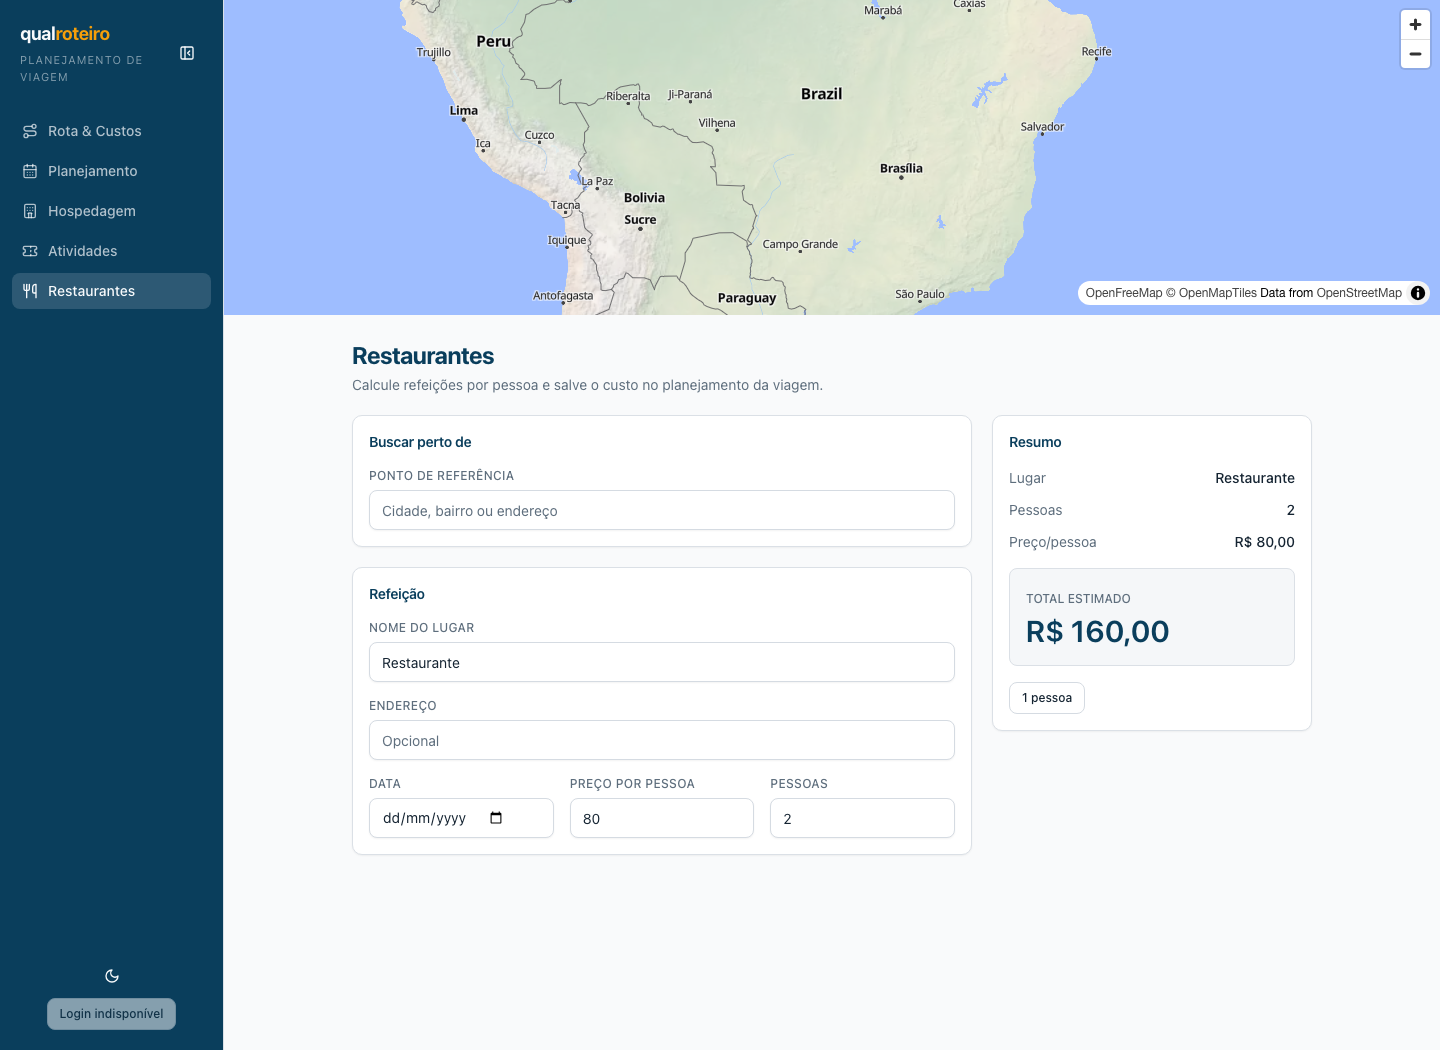
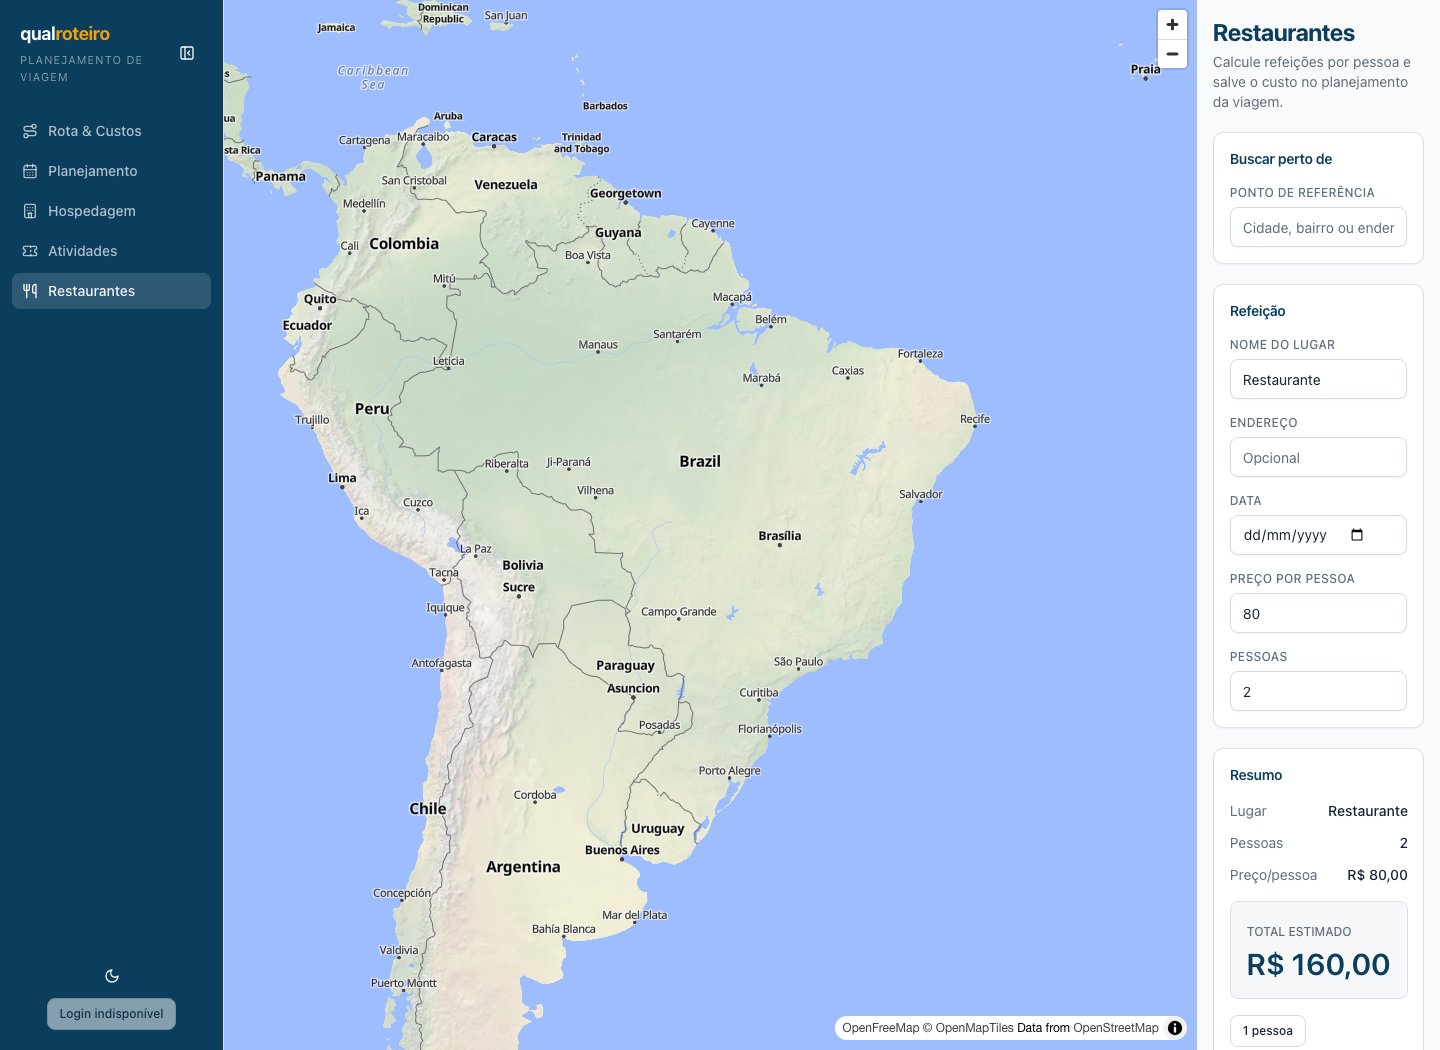
fix(web): fit map side panel without overflow

diff --git a/apps/web/src/modules/rota-custos/ResultScreen.tsx b/apps/web/src/modules/rota-custos/ResultScreen.tsx
@@ -40,7 +40,7 @@ export function ResultScreen() {
   return (
     <aside
       aria-label="Custos da rota"
-      className="flex min-h-0 flex-1 flex-col gap-4 overflow-y-auto border-border bg-background p-4 md:w-[26rem] md:flex-none md:border-l md:p-5"
+      className="flex min-w-0 min-h-0 flex-1 flex-col gap-4 overflow-y-auto border-border bg-background p-4 md:border-l md:p-5"
     >
       <div>
         <Button asChild variant="ghost" size="sm" className="-ml-2 mb-2 text-muted-foreground">
@@ -65,17 +65,17 @@ export function ResultScreen() {
       <SummaryRow route={route} />
 
       <Tabs defaultValue="pedagios" className="flex flex-none flex-col">
-        <TabsList className="min-h-10 shrink-0 gap-0.5 overflow-x-auto">
-          <TabsTrigger value="pedagios" className="min-w-max flex-none px-2 text-xs">
+        <TabsList className="min-h-10 shrink-0 flex-wrap gap-0.5 overflow-visible">
+          <TabsTrigger value="pedagios" className="min-w-0 flex-1 basis-[45%] px-2 text-xs">
             Pedágios
           </TabsTrigger>
-          <TabsTrigger value="combustivel" className="min-w-max flex-none px-2 text-xs">
+          <TabsTrigger value="combustivel" className="min-w-0 flex-1 basis-[45%] px-2 text-xs">
             Combustível
           </TabsTrigger>
-          <TabsTrigger value="pontos" className="min-w-max flex-none px-2 text-xs">
+          <TabsTrigger value="pontos" className="min-w-0 flex-1 basis-[45%] px-2 text-xs">
             Pontos na rota
           </TabsTrigger>
-          <TabsTrigger value="alternativas" className="min-w-max flex-none px-2 text-xs">
+          <TabsTrigger value="alternativas" className="min-w-0 flex-1 basis-[45%] px-2 text-xs">
             Alternativas
           </TabsTrigger>
         </TabsList>

diff --git a/apps/web/src/modules/hospedagem/index.tsx b/apps/web/src/modules/hospedagem/index.tsx
@@ -138,7 +138,7 @@ function HospedagemPanel() {
   const priceError = stay.pricePerNight < 0 ? result.error : null;
 
   return (
-    <section className="mx-auto flex w-full max-w-5xl flex-col gap-5 px-4 py-6 md:px-8">
+    <section className="map-panel-content mx-auto flex w-full max-w-5xl flex-col gap-5 px-4 py-6 md:px-8">
       <header className="flex flex-col gap-1">
         <h1 className="text-2xl font-bold tracking-tight text-primary">Hospedagem</h1>
         <p className="text-sm text-muted-foreground">
@@ -173,7 +173,7 @@ function HospedagemPanel() {
                 Nenhuma hospedagem encontrada nesta região.
               </p>
             ) : (
-              <ul aria-label="Hospedagens encontradas" className="grid gap-2 sm:grid-cols-2">
+              <ul aria-label="Hospedagens encontradas" className="calculator-nearby-grid grid gap-2 sm:grid-cols-2">
                 {nearbyPlaces.map((place) => (
                   <li key={place.id}>
                     <button
@@ -196,7 +196,7 @@ function HospedagemPanel() {
         </CardContent>
       </Card>
 
-      <div className="grid gap-4 lg:grid-cols-[minmax(0,1fr)_20rem]">
+      <div className="calculator-main-grid grid gap-4 lg:grid-cols-[minmax(0,1fr)_20rem]">
         <Card>
           <CardHeader>
             <CardTitle>Dados da estadia</CardTitle>
@@ -222,7 +222,7 @@ function HospedagemPanel() {
                 />
               </div>
 
-              <div className="grid gap-3 sm:grid-cols-3">
+              <div className="calculator-form-grid grid gap-3 sm:grid-cols-3">
                 <div className="grid gap-1.5">
                   <Label htmlFor="lodging-check-in">Check-in</Label>
                   <Input

diff --git a/apps/web/src/modules/atividades/index.tsx b/apps/web/src/modules/atividades/index.tsx
@@ -140,7 +140,7 @@ function AtividadesPanel() {
   const peopleError = plan.people < 1 ? result.error : null;
 
   return (
-    <section className="mx-auto flex w-full max-w-5xl flex-col gap-5 px-4 py-6 md:px-8">
+    <section className="map-panel-content mx-auto flex w-full max-w-5xl flex-col gap-5 px-4 py-6 md:px-8">
       <header className="flex flex-col gap-1">
         <h1 className="text-2xl font-bold tracking-tight text-primary">Atividades</h1>
         <p className="text-sm text-muted-foreground">
@@ -148,7 +148,7 @@ function AtividadesPanel() {
         </p>
       </header>
 
-      <div className="grid gap-4 lg:grid-cols-[minmax(0,1fr)_20rem]">
+      <div className="calculator-main-grid grid gap-4 lg:grid-cols-[minmax(0,1fr)_20rem]">
         <Card className="lg:col-span-2">
           <CardHeader>
             <CardTitle>Encontrar atividade</CardTitle>
@@ -224,7 +224,7 @@ function AtividadesPanel() {
                 />
               </div>
 
-              <div className="grid gap-3 sm:grid-cols-3">
+              <div className="calculator-form-grid grid gap-3 sm:grid-cols-3">
                 <div className="grid gap-1.5">
                   <Label htmlFor="activity-date">Data</Label>
                   <Input

diff --git a/apps/web/src/modules/restaurantes/index.tsx b/apps/web/src/modules/restaurantes/index.tsx
@@ -122,7 +122,7 @@ function RestaurantPanel() {
   const peopleError = visit.people < 1 ? costResult.error : null;
 
   return (
-    <section className="mx-auto flex w-full max-w-5xl flex-col gap-5 px-4 py-6 md:px-8">
+    <section className="map-panel-content mx-auto flex w-full max-w-5xl flex-col gap-5 px-4 py-6 md:px-8">
       <header className="flex flex-col gap-1">
         <h1 className="text-2xl font-bold tracking-tight text-primary">Restaurantes</h1>
         <p className="text-sm text-muted-foreground">
@@ -130,7 +130,7 @@ function RestaurantPanel() {
         </p>
       </header>
 
-      <div className="grid gap-5 lg:grid-cols-[minmax(0,1fr)_20rem]">
+      <div className="calculator-main-grid grid gap-5 lg:grid-cols-[minmax(0,1fr)_20rem]">
         <div className="grid gap-5">
           <Card>
             <CardHeader>
@@ -195,7 +195,7 @@ function RestaurantPanel() {
                   />
                 </div>
 
-                <div className="grid gap-4 sm:grid-cols-3">
+                <div className="calculator-form-grid grid gap-4 sm:grid-cols-3">
                   <div className="grid gap-1.5">
                     <Label htmlFor="restaurant-date">Data</Label>
                     <Input

diff --git a/apps/web/src/core/shell/AppShell.tsx b/apps/web/src/core/shell/AppShell.tsx
@@ -147,13 +147,13 @@ export function AppShell({ children }: { children: ReactNode }) {
       <main
         className={cn(
           'min-w-0 flex-1',
-          showMap && 'flex h-[calc(100vh-3.25rem)] flex-col overflow-hidden md:h-screen',
+          showMap && 'flex h-[calc(100vh-3.25rem)] flex-col overflow-hidden md:h-screen md:flex-row',
         )}
       >
         {showMap ? (
           <div
             data-testid="app-map-container"
-            className="relative h-[30vh] min-h-48 max-h-[22rem] shrink-0"
+            className="relative h-[30vh] min-h-48 max-h-[22rem] shrink-0 md:h-auto md:min-h-0 md:max-h-none md:w-4/5"
           >
             <MapCanvas
               trace={mapTrace?.coordinates ?? null}
@@ -162,7 +162,7 @@ export function AppShell({ children }: { children: ReactNode }) {
             />
           </div>
         ) : null}
-        <div className={cn(showMap && 'min-h-0 flex-1 overflow-y-auto')}>
+        <div className={cn(showMap && 'map-content-panel min-h-0 flex-1 overflow-x-hidden overflow-y-auto md:w-1/5')}>
           {children}
         </div>
       </main>

diff --git a/apps/web/src/core/shell/AppShell.test.tsx b/apps/web/src/core/shell/AppShell.test.tsx
@@ -58,17 +58,21 @@ describe('AppShell', () => {
   });
 
   it.each(['/rota-custos', '/hospedagem', '/restaurantes', '/atividades'])(
-    'stacks the map above the content for %s',
+    'uses the 80/20 map-and-content split for %s',
     (path) => {
       const { container } = renderApp(path);
       const main = container.querySelector('main');
       const map = screen.getByTestId('app-map-container');
 
-      expect(main).toHaveClass('flex-col');
-      expect(main).not.toHaveClass('md:flex-row');
-      expect(map).toHaveClass('h-[30vh]', 'min-h-48', 'max-h-[22rem]');
+      expect(main).toHaveClass('flex-col', 'md:flex-row');
+      expect(map).toHaveClass('h-[30vh]', 'min-h-48', 'max-h-[22rem]', 'md:w-4/5');
       expect(map.parentElement).toBe(main);
-      expect(map.nextElementSibling).toHaveClass('overflow-y-auto');
+      expect(map.nextElementSibling).toHaveClass(
+        'map-content-panel',
+        'overflow-x-hidden',
+        'overflow-y-auto',
+        'md:w-1/5',
+      );
 
       cleanup();
       resetApp();

diff --git a/apps/web/src/modules/rota-custos/rotaCustos.test.tsx b/apps/web/src/modules/rota-custos/rotaCustos.test.tsx
@@ -256,14 +256,14 @@ describe('Tela 2 — resultado', () => {
     expect(screen.queryByText(/três corredores|base de demonstração/i)).not.toBeInTheDocument();
   });
 
-  it('keeps every tab label available without truncating Alternativas', async () => {
+  it('keeps every tab label available without horizontal scrolling', async () => {
     await planFromForm({ routes: [DUTRA_ROUTE, ALTERNATIVE_ROUTE] });
     await screen.findByRole('heading', { name: /resultado da rota/i });
 
     const alternatives = panel().getByRole('tab', { name: 'Alternativas' });
-    expect(alternatives).toHaveClass('min-w-max');
+    expect(alternatives).toHaveClass('min-w-0', 'basis-[45%]');
     expect(alternatives).toHaveClass('text-xs');
-    expect(alternatives.parentElement).toHaveClass('overflow-x-auto');
+    expect(alternatives.parentElement).toHaveClass('flex-wrap', 'overflow-visible');
   });
 
   it('shows litres, price and cost on the fuel tab, and the cost is litres × price', async () => {

diff --git a/apps/web/src/index.css b/apps/web/src/index.css
@@ -107,4 +107,27 @@
   .dark .maplibregl-canvas {
     filter: brightness(0.78) saturate(0.85);
   }
+
+  @media (min-width: 768px) {
+    .map-content-panel {
+      container-type: inline-size;
+    }
+
+    .map-content-panel > * {
+      min-width: 0;
+    }
+
+    .map-content-panel .map-panel-content,
+    .map-content-panel .route-query-panel {
+      padding: 1rem !important;
+    }
+
+    .map-content-panel .calculator-main-grid,
+    .map-content-panel .calculator-form-grid,
+    .map-content-panel .calculator-nearby-grid,
+    .map-content-panel fieldset,
+    .map-content-panel .grid-cols-2 {
+      grid-template-columns: minmax(0, 1fr) !important;
+    }
+  }
 }

diff --git a/apps/web/src/modules/rota-custos/NewQueryScreen.tsx b/apps/web/src/modules/rota-custos/NewQueryScreen.tsx
@@ -180,7 +180,7 @@ export function NewQueryScreen() {
   }
 
   return (
-    <div className="mx-auto w-full max-w-3xl px-4 py-8 md:px-8 md:py-12">
+    <div className="route-query-panel mx-auto w-full max-w-3xl px-4 py-8 md:px-8 md:py-12">
       <header className="mb-8">
         <h1 className="text-2xl font-bold tracking-tight text-primary md:text-3xl">
           Quanto custa essa viagem?

diff --git a/docs/decisions/0002-ui-shell-theme-and-map-layout.md b/docs/decisions/0002-ui-shell-theme-and-map-layout.md
@@ -42,11 +42,15 @@ mapa.
 
 ### Mapa
 
-- Qualquer rota cujo módulo declare `showMap: true` usa a composição vertical:
-  mapa primeiro e conteúdo rolável abaixo. O mapa mede `30vh`, com mínimo de
-  12rem e máximo de 22rem — aproximadamente um terço da altura, como acordado.
+- Em desktop, qualquer rota cujo módulo declare `showMap: true` usa a divisão
+  vertical: mapa à esquerda em `4/5` (80%) da área útil do `main` e conteúdo
+  rolável à direita em `1/5` (20%). Em mobile, ela volta a empilhar mapa acima
+  do conteúdo para preservar campos utilizáveis.
 - A região rolável de conteúdo evita que formulários extensos cortem o mapa ou
-  ultrapassem a viewport.
+  ultrapassem a viewport em ambas as composições. No painel 20%, grades dos
+  formulários tornam-se coluna única e o container bloqueia overflow horizontal;
+  não usar larguras mínimas ou grids por breakpoint de viewport sem considerar
+  esse container.
 - O enquadramento inicial é Brasil (`center: [-52.5, -14.5]`, `zoom: 3.4`).
   A lógica existente de `fitBounds` ainda assume a visualização quando houver
   uma rota ou marcadores publicados.
@@ -55,8 +59,8 @@ mapa.
 
 1. Não recriar `MapCanvas` nos módulos. Para uma nova tela com mapa, declarar
    `showMap: true` no registro e publicar/limpar camadas pela `mapStore`.
-2. Não substituir `flex-col` por um grid/lado a lado dentro de módulos; o
-   shell é a fonte única do posicionamento do mapa.
+2. Não criar grid/lado a lado dentro de módulos; o shell é a fonte única da
+   divisão 80/20 desktop e do empilhamento mobile do mapa.
 3. Todo controle somente por ícone precisa de nome acessível e tooltip/título.
 4. Usar tokens (`bg-background`, `text-foreground`, `bg-card`, etc.) para que
    claro e escuro funcionem sem variantes locais.
@@ -69,8 +73,10 @@ mapa.
 - Testes: `apps/web/src/core/shell/AppShell.test.tsx` cobre preferência do
   sistema, persistência do tema/menu, acessibilidade do menu compacto e as
   quatro rotas com mapa. `MapCanvas.test.tsx` cobre a visão inicial Brasil.
-- Inspeção Playwright em 1440×1050: todas as quatro rotas registraram mapa
-  como primeiro filho do `main`, `flex-col` e conteúdo com `overflow-y-auto`.
+- Inspeção Playwright em 1440×1050: todas as quatro rotas registram mapa como
+  primeiro filho do `main`, `md:flex-row`, `md:w-4/5` e conteúdo rolável em
+  `md:w-1/5`; em todas, `scrollWidth` foi igual à largura da viewport (1440),
+  sem rolagem horizontal da página.
   Registro: [playwright.json](../qa/2026-09-16-ui-shell-theme-map-stack/evidence/playwright.json).
 - Capturas: [claro/menu expandido](../qa/2026-09-16-ui-shell-theme-map-stack/evidence/desktop-light-expanded.png)
   e [escuro/menu compacto](../qa/2026-09-16-ui-shell-theme-map-stack/evidence/desktop-dark-collapsed.png).
